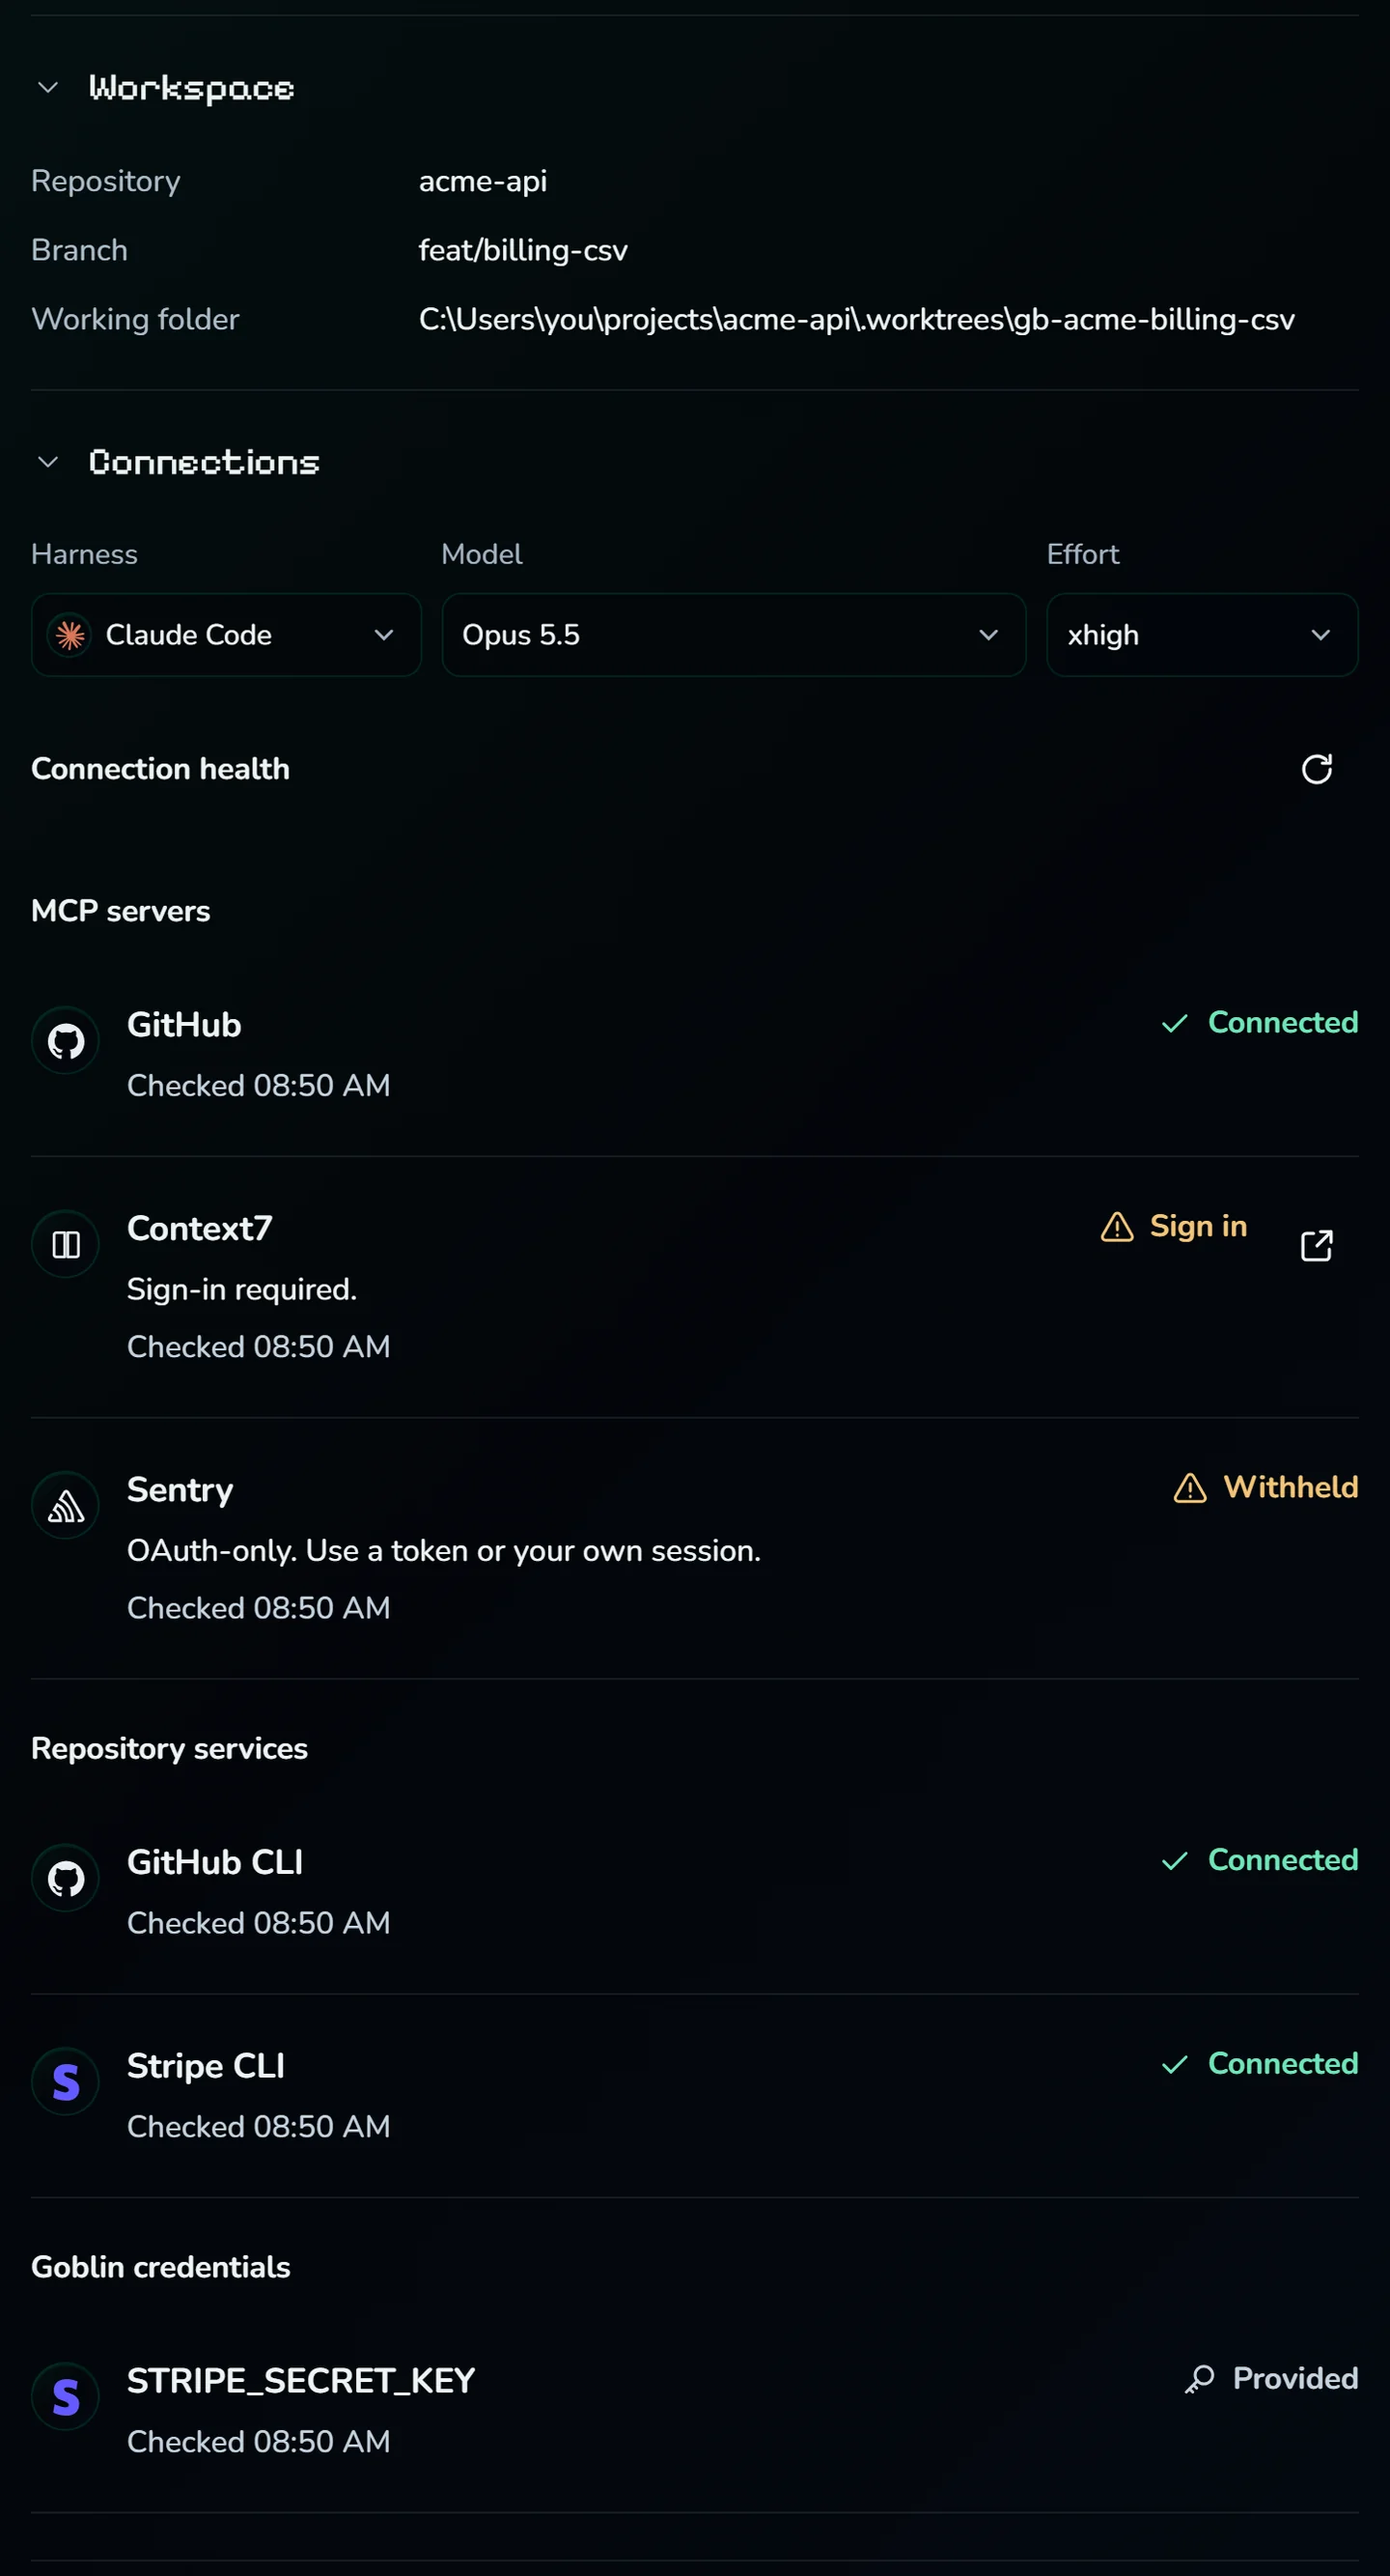
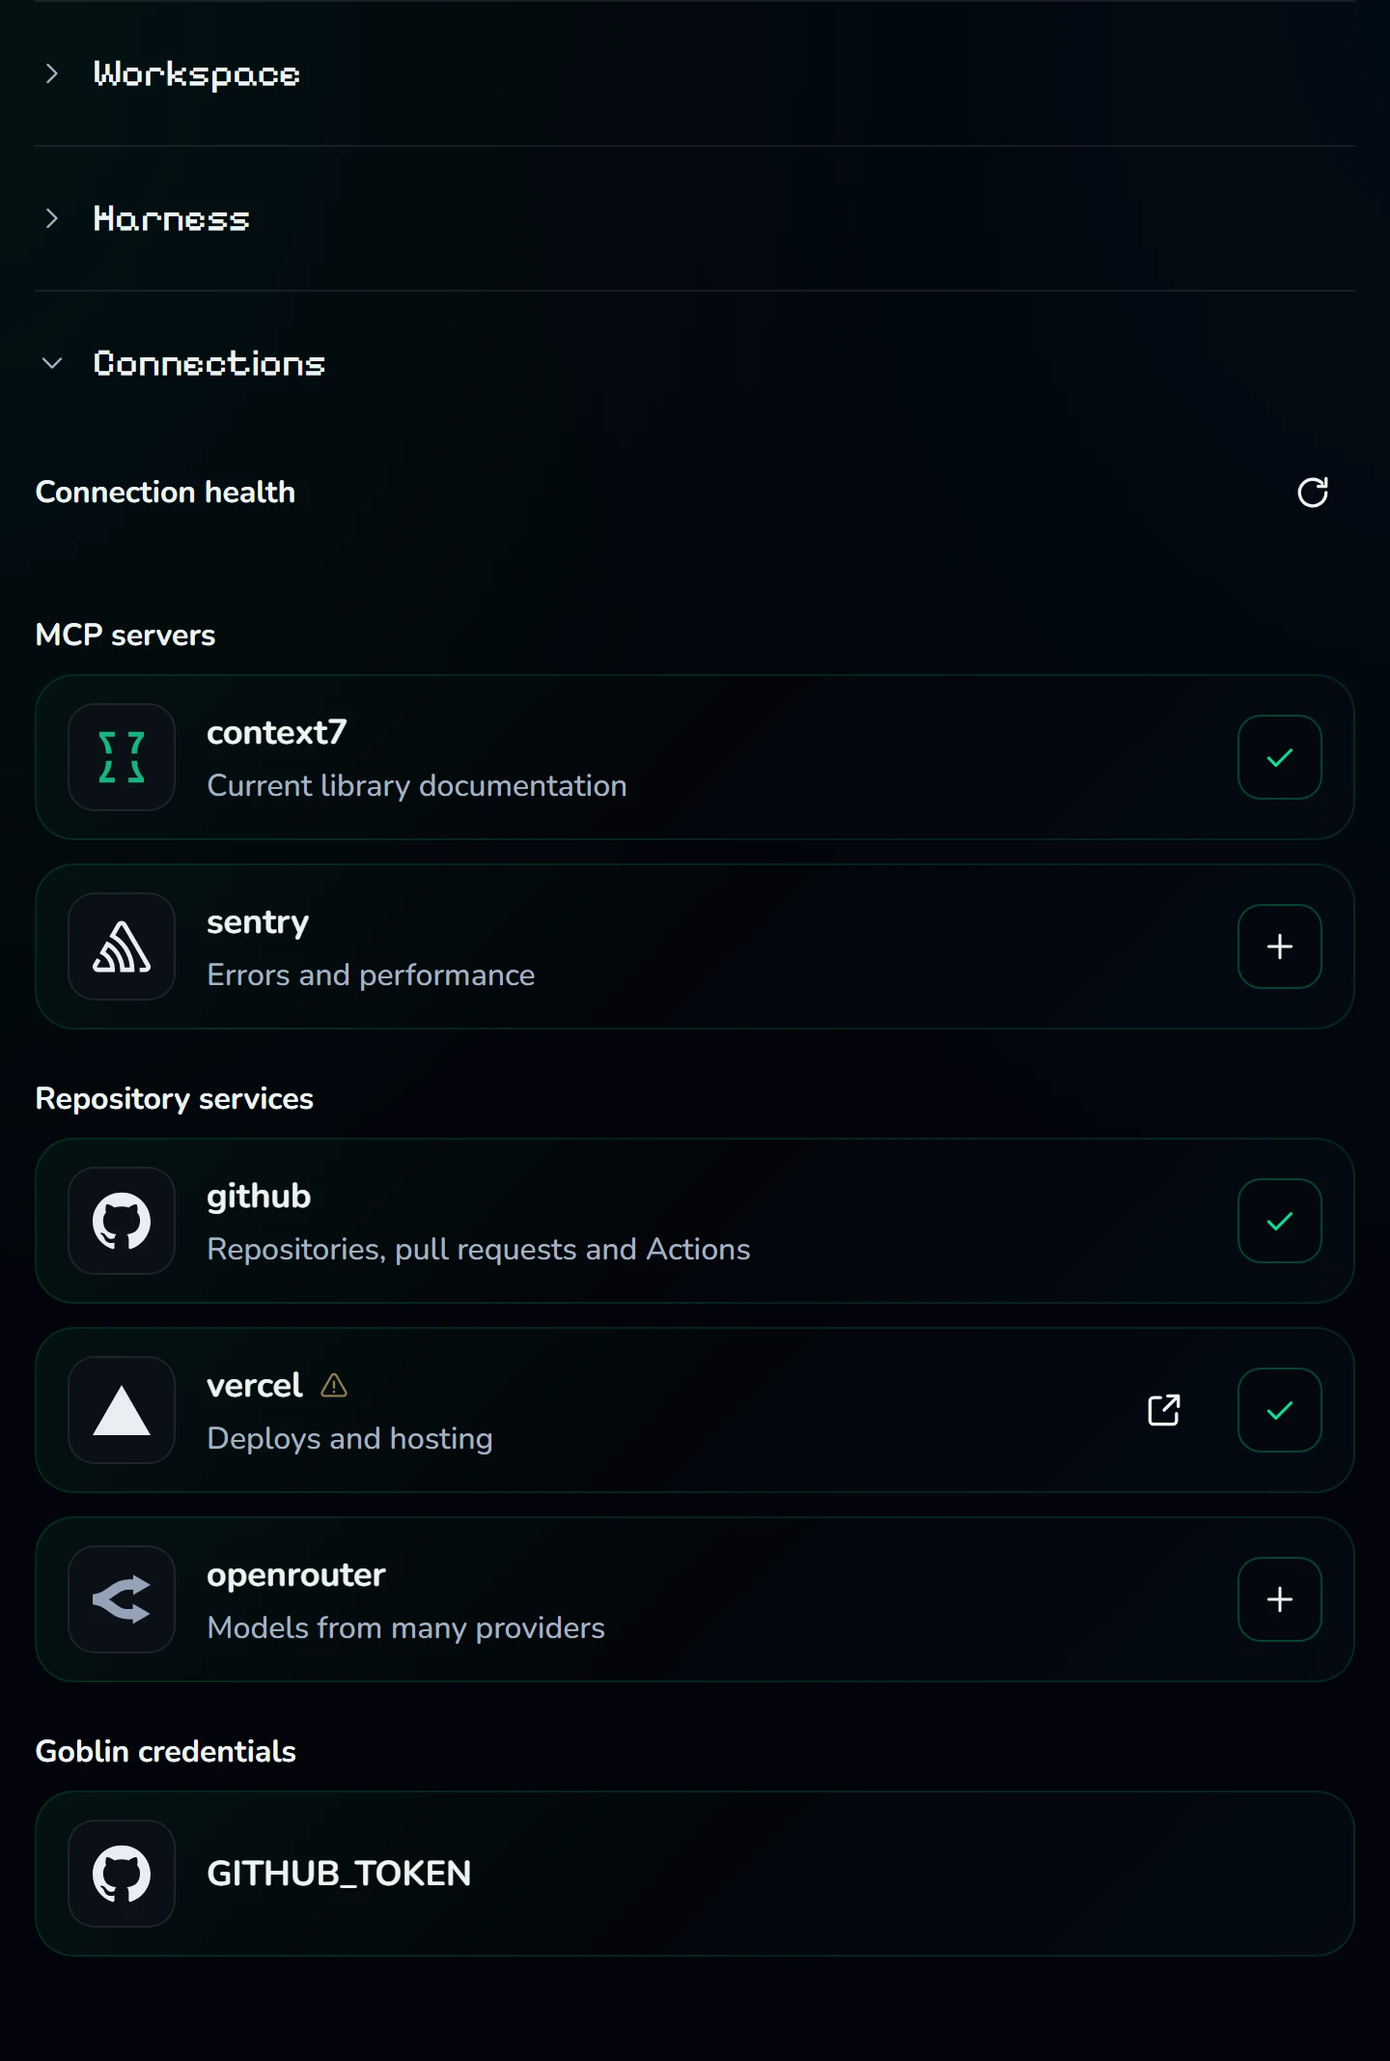
docs(board): describe connector cards and retake their picture
The README and the native board guide still described status words,
Withheld rows and check times. They now describe the cards, the
protected grant route and its board proof, and the README's connections
picture is retaken from this tree at the size it is shown, twice over.
A credential card shows no line of its own, since a variable is not the
service whose line it would borrow.

diff --git a/frontend/tests/connector-cards.spec.ts b/frontend/tests/connector-cards.spec.ts
@@ -12,7 +12,7 @@ const ENTRIES = [
   { id: "service:acme-internal", name: "acme-internal", kind: "service", status: "unauthorized", detail: "Sign-in required.", actions: ["login"], checked_at: "2026-10-13T12:07:00Z", grant: "revoke" },
   { id: "mcp:personal", name: "personal", kind: "mcp", status: "connected", checked_at: "2026-10-13T12:07:00Z" },
   { id: "credential:GITHUB_TOKEN", name: "GITHUB_TOKEN", kind: "credential", status: "withheld", detail: "This task does not carry it.", checked_at: "2026-10-13T12:07:00Z" },
-  { id: "credential:ACME_TOKEN", name: "ACME_TOKEN", kind: "credential", status: "provided", checked_at: "2026-10-13T12:07:00Z" },
+  { id: "credential:OPENROUTER_API_KEY", name: "OPENROUTER_API_KEY", kind: "credential", status: "provided", checked_at: "2026-10-13T12:07:00Z" },
 ];
 
 interface Supervisor { grants: unknown[]; tokens: string[]; entries: object[]; checking: boolean; held?: Promise<void>; refuses?: string }
@@ -63,7 +63,8 @@ for (const viewport of [{ width: 1280, height: 1400 }, { width: 390, height: 844
     await expect(panel).not.toContainText("does not carry it");
     await expect(panel).not.toContainText(/Checked \d/);
     await expect(panel.getByText("GITHUB_TOKEN", { exact: true })).toHaveCount(0);
-    await expect(panel.getByText("ACME_TOKEN", { exact: true })).toBeVisible();
+    await expect(card(panel, "OPENROUTER_API_KEY").locator(".connector-logo svg")).toHaveCount(1);
+    await expect(card(panel, "OPENROUTER_API_KEY").locator(".connector-about")).toHaveCount(0);
     expect(await panel.evaluate((element) => element.scrollWidth <= element.clientWidth)).toBe(true);
     expect(await page.evaluate(() => document.documentElement.scrollWidth <= innerWidth)).toBe(true);
     await page.locator("main").screenshot({ path: test.info().outputPath("connector-cards-" + viewport.width + ".png") });

diff --git a/frontend/src/connector-card.tsx b/frontend/src/connector-card.tsx
@@ -13,7 +13,8 @@ export function ConnectorCard({ entry, isCarried, isBusy, isChanging, onFix, onT
   onFix: (entry: ConnectionEntry, action: string) => void; onToggle: (entry: ConnectionEntry) => void;
 }) {
   const logo = connectorLogo(entry.name);
-  const about = connectorAbout(entry.name);
+  // A credential is one of its service's variables, not a service of its own.
+  const about = entry.kind === "credential" ? "" : connectorAbout(entry.name);
   const trouble = connectionTrouble(entry);
   const toggle = isCarried ? "Take " + entry.name + " back" : "Give " + entry.name;
   return <li className="connector-card">

diff --git a/docs/native-board.md b/docs/native-board.md
@@ -1075,12 +1075,12 @@ A switch that keeps a running goblin's harness resumes the conversation the boar
 The panel keeps its live values while the switch runs, then shows the resulting session and any failure reason.
 The CFO receives one digest line in the notify wake queue, never a prompt, for each saved queued or Resume choice, each switch that completed or failed, and each pending choice removed because its session changed or its selection became unavailable.
 Completed outcomes record the last harness, model and effort, while older outcomes without those fields say Engine not recorded.
-Connections groups MCP servers, repository services and credentials present in the goblin's launch environment, with 16px or larger text and check times.
-Each connection puts its name left and its status right on one line when the Connections region is at least 520px wide, then stacks them below that width, independently of the window's width.
-Every name carries the board's full-text tip, so a long name the wide row truncates with an ellipsis still reads in full, and narrower regions wrap it in full instead; the rows have 24px of padding above and below their content while checks load and after they finish.
+Connections groups MCP servers, repository services and credentials present in the goblin's launch environment as cards, with 16px or larger text: each card has the service's logo on a tile, bundled with the board (Simple Icons marks, and Context7's own MIT icon), or its initial where the board has none, its name, one line on what it does for a known service, and one square button.
+The button is + for a repository service the task does not carry or a project MCP server its harness was not given, and a check for one the task's record names; a credential variable and an MCP server from outside the project's `.mcp.json` have none, and a credential variable the task does not carry has no card, since its service's card offers it.
+Every name carries the board's full-text tip, so a long name the card truncates with an ellipsis still reads in full. A connector that is failing shows one faint mark whose tip and accessible name are its state and reason, with its repair icons beside it; one connected, provided, optional, being checked or not carried shows none.
 Claude checks use its MCP health report and the goblin's strict/config-file arguments; Codex inventory preserves the goblin's disabled-server overrides, and enabled servers earn Connected only from a fresh app-server runtime report, never from stored auth or cached tools.
 Repository services reuse the auth manifest's probes and status words; a resolved token with no probe is Unverified, and a token present in the goblin's environment is Provided rather than Connected.
-A service the task does not carry is not probed: it and each of its credentials read Withheld, with the `cfo auth grant` that gives it and nothing to store, since the value is stored and only kept from this task ([Credentials by need](../AGENTS.md#credentials-by-need)).
+A service the task does not carry is not probed, and its card offers + with nothing to store, since the value is stored and only kept from this task ([Credentials by need](../AGENTS.md#credentials-by-need)).
 Workspace says in one line which services' credentials the goblin's terminal carries, by name.
 Checks are cached for one minute, limited to two concurrent workers and 45 seconds per check, and return Checking immediately instead of blocking the board.
 Opening the dropdown starts a check only when the cached result is older than a minute; the refresh icon, a finished repair card and the first return to the board after each sign-in click always start one.
@@ -1088,12 +1088,13 @@ The dropdown polls only while a check runs, so an open dropdown never rechecks o
 A refresh or finished repair that arrives while a check runs queues one more check after it, and repair icons act on the shown result without starting a check.
 Native environment reads verify the host, process ancestry, working folder and spawn generation; missing runtime evidence remains Unverified.
 Herdr environment reads first verify the pane's registered harness, working folder, foreground process and shell ancestry, then the spawn generation in the process itself.
-Project MCP servers omitted from the goblin's configuration appear as Withheld, with a token action when the project names a token variable.
+Project MCP servers omitted from the goblin's configuration show as cards with +, and a token action when the project names a token variable and they are failing.
 CLI sign-in is offered only when the service's declared credentials resolve, and launch-disabled MCP servers offer no sign-in.
 Sign-in icons open the manifest's HTTPS login page or a server-generated repair card using the existing Command Center run machinery; key icons create a store-from-clipboard card without reading the clipboard in the browser.
 Fix requests accept connection and action identities only, require the board token and origin, and reject replaced tasks; repair cards verify the task again before running.
+`POST /api/connections/grant` takes a task, its spawn generation, a `service:`, `mcp:` or `withheld:` connection and `grant` or `revoke`, and does what `cfo auth grant` and `cfo auth revoke` (with `--mcp` for a server) do. Past the token and origin checks it takes only a board proven to be the Overlord's own, as AFK mode's switch does, since any program on the PC can read the token. The task's status credits his board, the CFO gets a notify wake, a live native goblin is told to load a granted service's credentials, and the response is the check that follows. The card shows his press at once and keeps it until a finished check shows it, or puts it back with the supervisor's reason.
 Finishing a repair refreshes the cached status, and returning from a browser sign-in rechecks it.
-A stored token does not change an already running native process's environment, so its row remains Missing until the goblin receives it.
+A stored token does not change an already running native process's environment, so its card keeps its Missing mark until the goblin receives it.
 Matching-generation native model evidence takes precedence; otherwise the model is explicitly labeled configured, including a configured default.
 Environment values, full process environments, dotenv, auth scripts, MCP commands and headers are never exposed.
 

diff --git a/README.md b/README.md
@@ -607,14 +607,14 @@ The switch closes the old native terminal, keeps the task, worktree and branch, 
 A pending choice appears on the card and can be cancelled under Harness; the live values change after the switch completes.
 Pausing the task first makes its next **Resume** use the pending choice, and a choice that is no longer available when the turn ends is dropped with the reason on the card.
 A completed task shows its recorded harness, model and effort without controls, or **Engine not recorded** when an older record has no engine.
-Connections shows **Connected** with a check only after a successful health check, alongside the check time; a credential present in the goblin's environment reads **Provided**, and a service the goblin's task does not carry reads **Withheld**.
-Connection names and statuses share a line with the status on the right in panels at least 520 px wide, and stack below that width.
-Long names show their full text in a tip; rows keep room between their separators while health checks run.
+Each connection is a card, as Claude lists its connectors: the service's own logo, bundled with the board, or its initial where the board has none, its name, one line on what it does, and one square button. **+** gives the task a repository service or a project MCP server it does not carry, and the check takes it back, as `cfo auth grant` and `cfo auth revoke` do, and the card changes at once.
+Only a board of the Overlord's own, his desktop window or a browser this home granted, can press them, and the CFO is told each time.
+A connector that is failing keeps one faint mark with its reason in the tip, and its sign-in or key icon beside it. Long names show their full text in a tip.
 Open the dropdown to check connections that were last checked over a minute ago, use its refresh icon to check again, and use a connection's sign-in or key icon to open its login page or a secure repair card in Command Center.
-Repairs trigger a fresh check; a token stored after a native goblin started still needs to reach that goblin before its credential row changes.
-Disabled or withheld MCP servers say why they are unavailable, and no secret values appear on the board.
+Repairs trigger a fresh check. A token stored after a native goblin started still needs to reach that goblin before its credential card changes.
+No secret values appear on the board.
 
-<img src="docs/images/board-connections.webp" alt="Workspace and Connections in a goblin's panel: the harness, model and effort selectors, then Connected checks, a sign-in action, a withheld MCP server, repository services and a provided credential" width="720" />
+<img src="docs/images/board-connections.webp" alt="Workspace, Harness and Connections in a goblin's panel: connector cards for context7, sentry, github, vercel and openrouter, each with its logo, name, one line on what it does and a + or a check, vercel with a faint warning mark and its sign-in, and a GITHUB_TOKEN credential" width="720" />
 
 The CFO's Task view lists every queued task under its workspace, in the same priority order as the Tasks column and with the same memory meter, drag and **Start**.
 The Terminal view is the goblin's live terminal, edge to edge.
